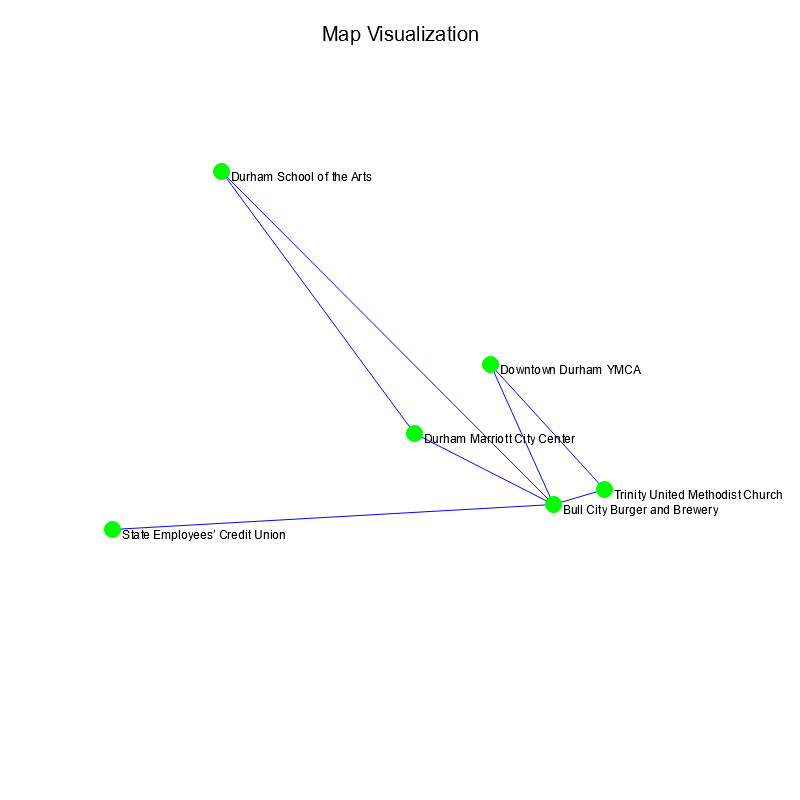
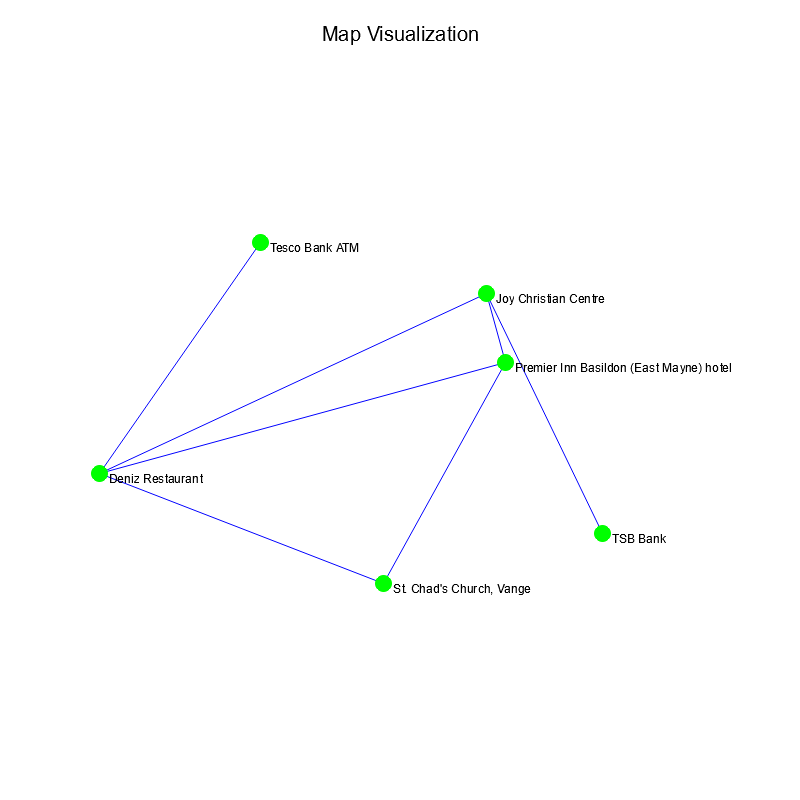
add: spaced points

diff --git a/Backend/src/map/gen_places.rs b/Backend/src/map/gen_places.rs
@@ -74,22 +74,74 @@ fn pick_spread_out(
     min_distance_m: f64,
     max_n: usize,
 ) -> Vec<Location> {
+    if candidates.is_empty() {
+        return Vec::new();
+    }
+
     let mut chosen = Vec::new();
-    for (name, loc, _type) in candidates {
-        if chosen.iter().all(|c: &Location| haversine_distance(c.coords, *loc) >= min_distance_m)
+    let mut remaining: Vec<_> = candidates.to_vec();
+
+    // Start with the first point
+    chosen.push(Location {
+        name: remaining[0].0.clone(),
+        coords: remaining[0].1,
+        _type: remaining[0].2.clone(),
+    });
+    remaining.remove(0);
+
+    while chosen.len() < max_n && !remaining.is_empty() {
+        // Pick the point farthest from all chosen points
+        if let Some((idx, _)) = remaining.iter().enumerate()
+            .map(|(i, (_, loc, _))| {
+                let min_dist = chosen
+                    .iter()
+                    .map(|c| haversine_distance(c.coords, *loc))
+                    .fold(f64::MAX, f64::min);
+                (i, min_dist)
+            })
+            .max_by(|a, b| a.1.partial_cmp(&b.1).unwrap())
         {
-            chosen.push(Location {
-                name: name.clone(),
-                coords: *loc,
-                _type: _type.clone()
-            });
-        }
-        if chosen.len() >= max_n {
+            let (name, loc, _type) = remaining.remove(idx);
+            if chosen.iter().all(|c| haversine_distance(c.coords, loc) >= min_distance_m) {
+                chosen.push(Location {
+                    name,
+                    coords: loc,
+                    _type,
+                });
+            } else {
+                // Stop if we can't find more sufficiently spaced points
+                break;
+            }
+        } else {
             break;
         }
     }
+
     chosen
 }
+
+
+
+fn euclidean_distance(a: (f64, f64), b: (f64, f64)) -> f64 {
+    ((a.0 - b.0).powi(2) + (a.1 - b.1).powi(2)).sqrt()
+}
+
+/// Remove locations that are closer than 0.2 units from each other.
+fn remove_close_points(locations: Vec<Location>, min_distance: f64) -> Vec<Location> {
+    let mut filtered = Vec::new();
+
+    for loc in locations {
+        if filtered
+            .iter()
+            .all(|existing: &Location| euclidean_distance(existing.coords, loc.coords) > min_distance)
+        {
+            filtered.push(loc);
+        }
+    }
+
+    filtered
+}
+
 
 pub async fn fetch_map(
     place: &str,
@@ -196,6 +248,10 @@ pub async fn fetch_map(
         return Err("No locations found".into());
     }
 
+
+
+
+
     // Step 3: Compute centroid & scale for normalization
     let (sum_lat, sum_lng) = locations.iter().fold((0.0, 0.0), |acc, loc| {
         (acc.0 + loc.coords.0, acc.1 + loc.coords.1)
@@ -248,6 +304,9 @@ pub async fn fetch_map(
         });
     }
 
+    // Remove points that are too close to each other
+    let transformed_locations = remove_close_points(transformed_locations, 0.2);
+
     // Step 5: Generate a full mesh of routes
     let mut routes = Vec::new();
     for i in 0..transformed_locations.len() {
@@ -266,6 +325,8 @@ pub async fn fetch_map(
             non_overlapping.push((a, b));
         }
     }
+
+
 
     Ok(Map {
         locations: transformed_locations,

diff --git a/Backend/src/io/endpoints.rs b/Backend/src/io/endpoints.rs
@@ -1,3 +1,4 @@
+use crate::viz_map;
 use crate::fetch_map;
 use std::fs::File;
 use std::io::BufReader;
@@ -15,7 +16,8 @@ pub async fn init_map(name: String, live: bool) -> String {
             dotenv().ok();
             println!("Fetching up to {} attractions in {}...", 5, name);
             // Destructure the returned tuple
-            let map = fetch_map(&*name, 10, 100.0).await.unwrap();
+            let map = fetch_map(&*name, 10, 200.0).await.unwrap();
+            viz_map(&map.clone());
             println!("{}", map);
 
 

diff --git a/Backend/src/io/client.rs b/Backend/src/io/client.rs
@@ -5,7 +5,7 @@ use tokio::net::TcpStream;
 use serde_json::{json, Value};
 use crate::map::gen_places::fetch_map;
 
-const IS_LIVE: bool = false;
+const IS_LIVE: bool = true;
 
 pub async fn handle_client(mut stream: TcpStream) {
     let mut buffer = [0u8; 512];

diff --git a/Backend/src/types.rs b/Backend/src/types.rs
@@ -77,7 +77,7 @@ pub enum LocEnum {
     Hotel,
     Church,
     Bank,
-    Gym
+    Gym,
 }
 
 
